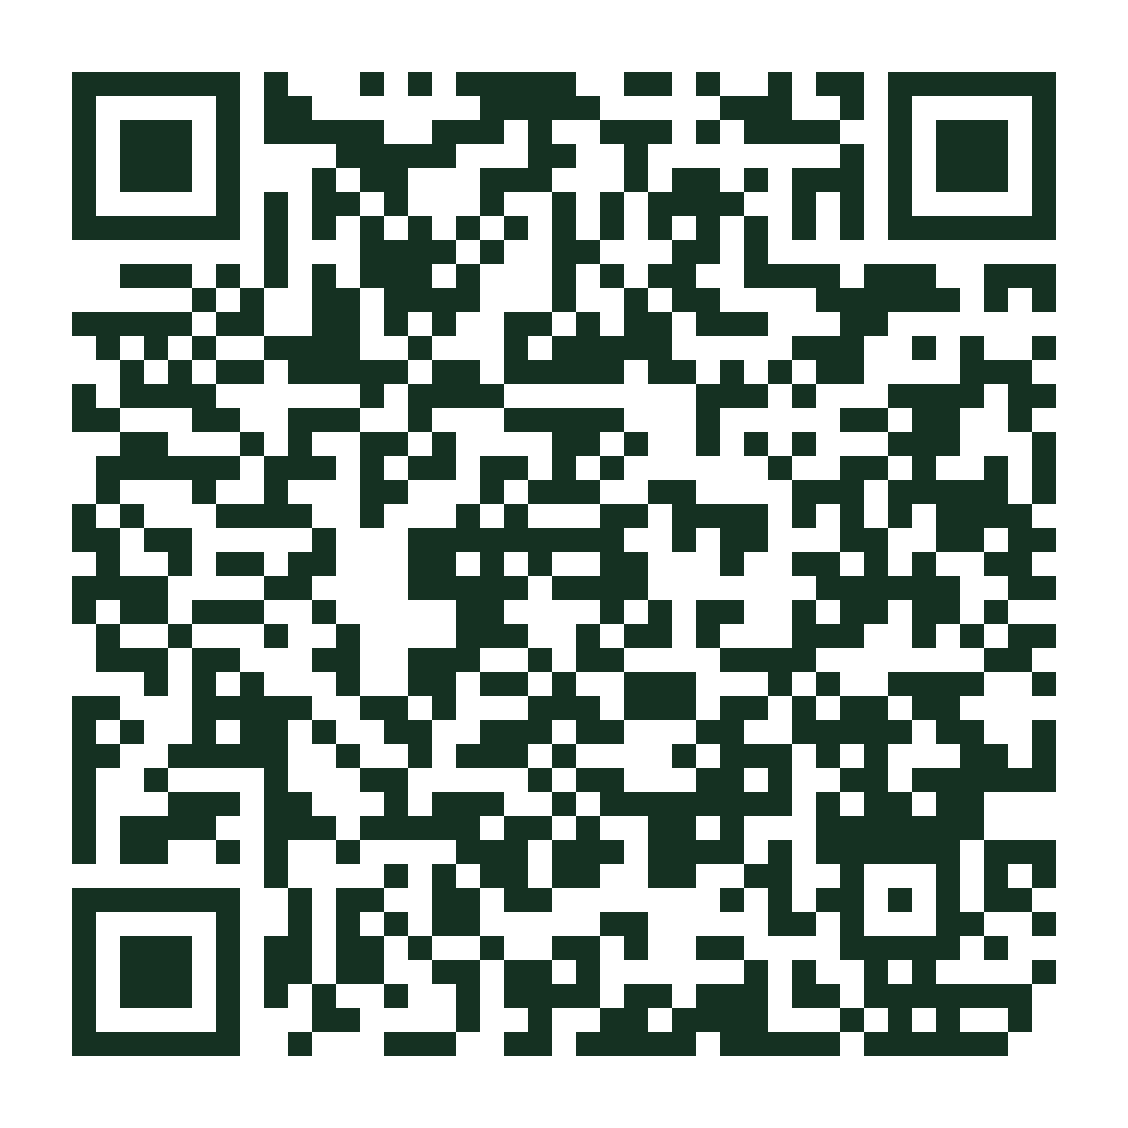
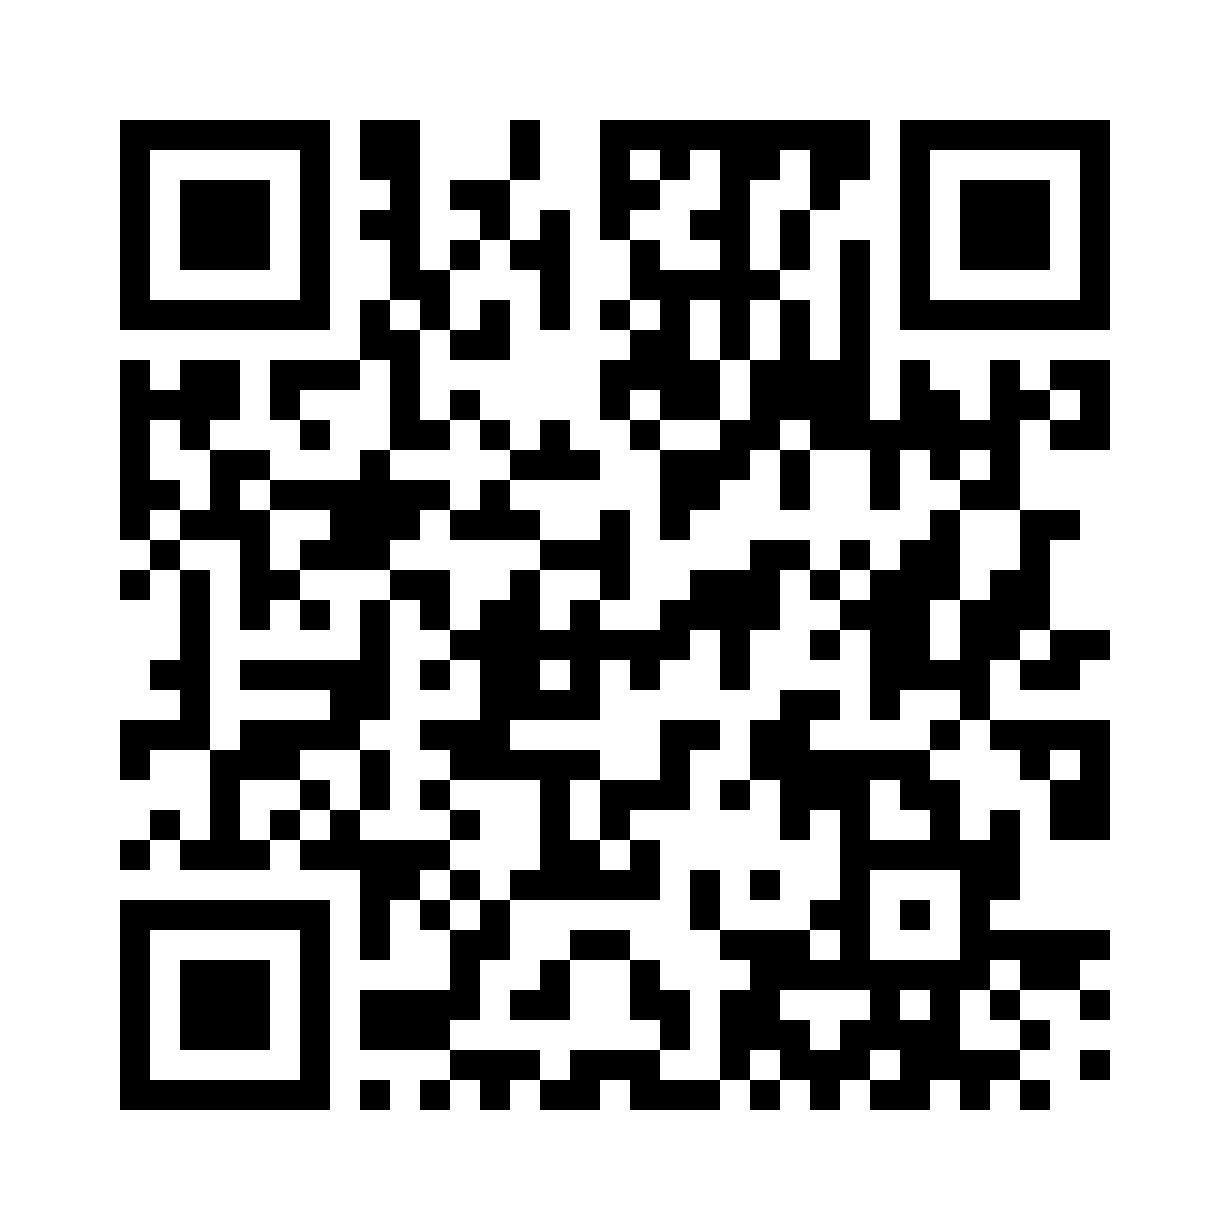
باركود أسهل بالقراءة: مربعات أكبر وتباين أعلى
الباركود كان بمستوى تصحيح خطأ H — يتحمّل تلف 30% بس يحتاج 41×41
مربع، يعني مربعات صغيرة وكاميرا الموبايل تتعب بقراءته من الشاشة.

- نزّلته لمستوى M: 33×33 مربع بدل 41×41، فالمربع الواحد أكبر 25%
  ولسه يتحمّل تلف 15% — كافي لملصق بمحل
- أسود صافي بدل الأخضر الغامق — تباين أعلى مع الخلفية البيضاء
- حاشية أوسع (4 مربعات) — بعض القارئات تحتاجها حتى تميّز الحدود
- 1230 بكسل بدل 1128

انتفحص بقارئ باركود (OpenCV) ويقرا الرابط الصحيح.

Claude-Session: https://claude.ai/code/session_01XYXCeXkoAFiM9NR5Qz9NUo

diff --git a/install.html b/install.html
@@ -123,7 +123,7 @@
     <div class="headline">ثبّت تطبيقنا على موبايلك</div>
     <div class="sub">اطلب خضارك وفواكهك من البيت — يوصلك لباب دارك</div>
 
-    <div class="qr-frame"><svg xmlns="http://www.w3.org/2000/svg" viewBox="0 0 45 45" shape-rendering="crispEdges"><rect width="45" height="45" fill="#fff"/><path d="M2 2h7v1h-7zM10 2h1v1h-1zM14 2h1v1h-1zM16 2h1v1h-1zM18 2h5v1h-5zM25 2h2v1h-2zM28 2h1v1h-1zM31 2h1v1h-1zM33 2h2v1h-2zM36 2h7v1h-7zM2 3h1v1h-1zM8 3h1v1h-1zM10 3h2v1h-2zM19 3h5v1h-5zM29 3h3v1h-3zM34 3h1v1h-1zM36 3h1v1h-1zM42 3h1v1h-1zM2 4h1v1h-1zM4 4h3v1h-3zM8 4h1v1h-1zM10 4h5v1h-5zM17 4h3v1h-3zM21 4h1v1h-1zM24 4h3v1h-3zM28 4h1v1h-1zM30 4h4v1h-4zM36 4h1v1h-1zM38 4h3v1h-3zM42 4h1v1h-1zM2 5h1v1h-1zM4 5h3v1h-3zM8 5h1v1h-1zM13 5h5v1h-5zM21 5h2v1h-2zM25 5h1v1h-1zM34 5h1v1h-1zM36 5h1v1h-1zM38 5h3v1h-3zM42 5h1v1h-1zM2 6h1v1h-1zM4 6h3v1h-3zM8 6h1v1h-1zM12 6h1v1h-1zM14 6h2v1h-2zM19 6h3v1h-3zM25 6h1v1h-1zM27 6h2v1h-2zM30 6h1v1h-1zM32 6h3v1h-3zM36 6h1v1h-1zM38 6h3v1h-3zM42 6h1v1h-1zM2 7h1v1h-1zM8 7h1v1h-1zM10 7h1v1h-1zM12 7h2v1h-2zM15 7h1v1h-1zM19 7h1v1h-1zM22 7h1v1h-1zM24 7h1v1h-1zM26 7h4v1h-4zM32 7h1v1h-1zM34 7h1v1h-1zM36 7h1v1h-1zM42 7h1v1h-1zM2 8h7v1h-7zM10 8h1v1h-1zM12 8h1v1h-1zM14 8h1v1h-1zM16 8h1v1h-1zM18 8h1v1h-1zM20 8h1v1h-1zM22 8h1v1h-1zM24 8h1v1h-1zM26 8h1v1h-1zM28 8h1v1h-1zM30 8h1v1h-1zM32 8h1v1h-1zM34 8h1v1h-1zM36 8h7v1h-7zM10 9h1v1h-1zM14 9h4v1h-4zM19 9h1v1h-1zM22 9h2v1h-2zM27 9h2v1h-2zM30 9h1v1h-1zM4 10h3v1h-3zM8 10h1v1h-1zM10 10h1v1h-1zM12 10h1v1h-1zM14 10h3v1h-3zM18 10h1v1h-1zM22 10h1v1h-1zM24 10h1v1h-1zM26 10h2v1h-2zM30 10h4v1h-4zM35 10h3v1h-3zM40 10h3v1h-3zM7 11h1v1h-1zM9 11h1v1h-1zM12 11h2v1h-2zM15 11h4v1h-4zM22 11h1v1h-1zM25 11h1v1h-1zM27 11h2v1h-2zM33 11h6v1h-6zM40 11h1v1h-1zM42 11h1v1h-1zM2 12h5v1h-5zM8 12h2v1h-2zM12 12h2v1h-2zM15 12h1v1h-1zM17 12h1v1h-1zM20 12h2v1h-2zM23 12h1v1h-1zM25 12h2v1h-2zM28 12h3v1h-3zM34 12h2v1h-2zM3 13h1v1h-1zM5 13h1v1h-1zM7 13h1v1h-1zM10 13h4v1h-4zM16 13h1v1h-1zM20 13h1v1h-1zM22 13h5v1h-5zM32 13h3v1h-3zM37 13h1v1h-1zM39 13h1v1h-1zM42 13h1v1h-1zM4 14h1v1h-1zM6 14h1v1h-1zM8 14h2v1h-2zM11 14h5v1h-5zM17 14h2v1h-2zM20 14h5v1h-5zM26 14h2v1h-2zM29 14h1v1h-1zM31 14h1v1h-1zM33 14h2v1h-2zM39 14h3v1h-3zM2 15h1v1h-1zM4 15h4v1h-4zM14 15h1v1h-1zM16 15h4v1h-4zM28 15h3v1h-3zM32 15h1v1h-1zM36 15h4v1h-4zM41 15h2v1h-2zM2 16h2v1h-2zM7 16h2v1h-2zM11 16h3v1h-3zM16 16h1v1h-1zM20 16h5v1h-5zM28 16h1v1h-1zM34 16h2v1h-2zM37 16h2v1h-2zM41 16h1v1h-1zM4 17h2v1h-2zM9 17h1v1h-1zM11 17h1v1h-1zM14 17h2v1h-2zM17 17h1v1h-1zM22 17h2v1h-2zM25 17h1v1h-1zM28 17h1v1h-1zM30 17h1v1h-1zM32 17h1v1h-1zM36 17h3v1h-3zM42 17h1v1h-1zM3 18h6v1h-6zM10 18h3v1h-3zM14 18h1v1h-1zM16 18h2v1h-2zM19 18h2v1h-2zM22 18h1v1h-1zM24 18h1v1h-1zM31 18h1v1h-1zM34 18h2v1h-2zM37 18h1v1h-1zM40 18h1v1h-1zM42 18h1v1h-1zM3 19h1v1h-1zM7 19h1v1h-1zM10 19h1v1h-1zM14 19h2v1h-2zM19 19h1v1h-1zM21 19h3v1h-3zM26 19h2v1h-2zM32 19h3v1h-3zM36 19h5v1h-5zM42 19h1v1h-1zM2 20h1v1h-1zM4 20h1v1h-1zM8 20h4v1h-4zM14 20h1v1h-1zM18 20h1v1h-1zM20 20h1v1h-1zM24 20h2v1h-2zM27 20h4v1h-4zM32 20h1v1h-1zM34 20h1v1h-1zM36 20h1v1h-1zM38 20h4v1h-4zM2 21h2v1h-2zM5 21h2v1h-2zM12 21h1v1h-1zM16 21h9v1h-9zM27 21h1v1h-1zM29 21h2v1h-2zM34 21h2v1h-2zM38 21h2v1h-2zM41 21h2v1h-2zM3 22h1v1h-1zM6 22h1v1h-1zM8 22h2v1h-2zM11 22h2v1h-2zM16 22h2v1h-2zM19 22h1v1h-1zM21 22h1v1h-1zM24 22h2v1h-2zM29 22h1v1h-1zM32 22h2v1h-2zM35 22h1v1h-1zM37 22h1v1h-1zM40 22h2v1h-2zM2 23h4v1h-4zM10 23h2v1h-2zM16 23h5v1h-5zM22 23h4v1h-4zM33 23h6v1h-6zM41 23h2v1h-2zM2 24h1v1h-1zM4 24h2v1h-2zM7 24h3v1h-3zM12 24h1v1h-1zM18 24h2v1h-2zM24 24h1v1h-1zM26 24h1v1h-1zM28 24h2v1h-2zM32 24h1v1h-1zM34 24h2v1h-2zM37 24h2v1h-2zM40 24h1v1h-1zM3 25h1v1h-1zM6 25h1v1h-1zM10 25h1v1h-1zM13 25h1v1h-1zM18 25h3v1h-3zM23 25h1v1h-1zM25 25h2v1h-2zM28 25h1v1h-1zM32 25h3v1h-3zM37 25h1v1h-1zM39 25h1v1h-1zM41 25h2v1h-2zM3 26h3v1h-3zM7 26h2v1h-2zM12 26h2v1h-2zM16 26h3v1h-3zM21 26h1v1h-1zM23 26h2v1h-2zM29 26h4v1h-4zM40 26h2v1h-2zM5 27h1v1h-1zM7 27h1v1h-1zM9 27h1v1h-1zM13 27h1v1h-1zM16 27h2v1h-2zM19 27h2v1h-2zM22 27h1v1h-1zM25 27h3v1h-3zM31 27h1v1h-1zM33 27h1v1h-1zM36 27h4v1h-4zM42 27h1v1h-1zM2 28h2v1h-2zM7 28h5v1h-5zM14 28h2v1h-2zM17 28h1v1h-1zM21 28h3v1h-3zM25 28h3v1h-3zM29 28h2v1h-2zM32 28h1v1h-1zM34 28h2v1h-2zM37 28h2v1h-2zM2 29h1v1h-1zM4 29h1v1h-1zM7 29h1v1h-1zM9 29h2v1h-2zM12 29h1v1h-1zM15 29h2v1h-2zM19 29h3v1h-3zM23 29h2v1h-2zM28 29h2v1h-2zM32 29h5v1h-5zM38 29h2v1h-2zM42 29h1v1h-1zM2 30h2v1h-2zM6 30h5v1h-5zM13 30h1v1h-1zM16 30h1v1h-1zM18 30h3v1h-3zM22 30h1v1h-1zM27 30h1v1h-1zM29 30h3v1h-3zM33 30h1v1h-1zM35 30h1v1h-1zM39 30h2v1h-2zM42 30h1v1h-1zM2 31h1v1h-1zM5 31h1v1h-1zM10 31h1v1h-1zM14 31h2v1h-2zM21 31h1v1h-1zM23 31h2v1h-2zM28 31h2v1h-2zM31 31h1v1h-1zM34 31h2v1h-2zM37 31h6v1h-6zM2 32h1v1h-1zM6 32h3v1h-3zM10 32h2v1h-2zM15 32h1v1h-1zM17 32h3v1h-3zM22 32h1v1h-1zM24 32h8v1h-8zM33 32h1v1h-1zM35 32h2v1h-2zM38 32h2v1h-2zM2 33h1v1h-1zM4 33h4v1h-4zM10 33h3v1h-3zM14 33h5v1h-5zM20 33h2v1h-2zM23 33h1v1h-1zM26 33h2v1h-2zM29 33h1v1h-1zM33 33h7v1h-7zM2 34h1v1h-1zM4 34h2v1h-2zM8 34h1v1h-1zM10 34h1v1h-1zM13 34h1v1h-1zM18 34h3v1h-3zM22 34h3v1h-3zM26 34h4v1h-4zM31 34h1v1h-1zM33 34h6v1h-6zM40 34h3v1h-3zM10 35h1v1h-1zM15 35h1v1h-1zM17 35h1v1h-1zM19 35h2v1h-2zM22 35h2v1h-2zM26 35h2v1h-2zM30 35h2v1h-2zM34 35h1v1h-1zM38 35h1v1h-1zM40 35h1v1h-1zM42 35h1v1h-1zM2 36h7v1h-7zM11 36h1v1h-1zM13 36h2v1h-2zM17 36h2v1h-2zM20 36h2v1h-2zM29 36h1v1h-1zM31 36h1v1h-1zM33 36h2v1h-2zM36 36h1v1h-1zM38 36h1v1h-1zM40 36h2v1h-2zM2 37h1v1h-1zM8 37h1v1h-1zM11 37h1v1h-1zM13 37h1v1h-1zM15 37h1v1h-1zM17 37h2v1h-2zM24 37h2v1h-2zM31 37h2v1h-2zM34 37h1v1h-1zM38 37h2v1h-2zM42 37h1v1h-1zM2 38h1v1h-1zM4 38h3v1h-3zM8 38h1v1h-1zM10 38h2v1h-2zM13 38h2v1h-2zM16 38h1v1h-1zM19 38h1v1h-1zM22 38h2v1h-2zM25 38h1v1h-1zM28 38h2v1h-2zM34 38h5v1h-5zM40 38h1v1h-1zM2 39h1v1h-1zM4 39h3v1h-3zM8 39h1v1h-1zM10 39h2v1h-2zM13 39h2v1h-2zM17 39h2v1h-2zM20 39h2v1h-2zM23 39h1v1h-1zM30 39h1v1h-1zM32 39h1v1h-1zM35 39h1v1h-1zM37 39h1v1h-1zM42 39h1v1h-1zM2 40h1v1h-1zM4 40h3v1h-3zM8 40h1v1h-1zM10 40h1v1h-1zM12 40h1v1h-1zM15 40h1v1h-1zM18 40h1v1h-1zM20 40h4v1h-4zM25 40h2v1h-2zM28 40h3v1h-3zM32 40h2v1h-2zM35 40h7v1h-7zM2 41h1v1h-1zM8 41h1v1h-1zM12 41h2v1h-2zM18 41h1v1h-1zM21 41h1v1h-1zM24 41h2v1h-2zM27 41h4v1h-4zM34 41h1v1h-1zM36 41h1v1h-1zM38 41h1v1h-1zM41 41h1v1h-1zM2 42h7v1h-7zM11 42h1v1h-1zM15 42h3v1h-3zM20 42h2v1h-2zM23 42h5v1h-5zM29 42h5v1h-5zM35 42h6v1h-6z" fill="#153122"/></svg></div>
+    <div class="qr-frame"><svg xmlns="http://www.w3.org/2000/svg" viewBox="0 0 41 41" shape-rendering="crispEdges"><rect width="41" height="41" fill="#fff"/><path d="M4 4h7v1h-7zM12 4h2v1h-2zM17 4h1v1h-1zM20 4h9v1h-9zM30 4h7v1h-7zM4 5h1v1h-1zM10 5h1v1h-1zM12 5h2v1h-2zM17 5h1v1h-1zM20 5h1v1h-1zM22 5h1v1h-1zM24 5h2v1h-2zM27 5h2v1h-2zM30 5h1v1h-1zM36 5h1v1h-1zM4 6h1v1h-1zM6 6h3v1h-3zM10 6h1v1h-1zM13 6h1v1h-1zM15 6h2v1h-2zM20 6h2v1h-2zM24 6h1v1h-1zM27 6h1v1h-1zM30 6h1v1h-1zM32 6h3v1h-3zM36 6h1v1h-1zM4 7h1v1h-1zM6 7h3v1h-3zM10 7h1v1h-1zM12 7h2v1h-2zM16 7h1v1h-1zM18 7h1v1h-1zM20 7h1v1h-1zM23 7h2v1h-2zM26 7h1v1h-1zM30 7h1v1h-1zM32 7h3v1h-3zM36 7h1v1h-1zM4 8h1v1h-1zM6 8h3v1h-3zM10 8h1v1h-1zM13 8h1v1h-1zM15 8h1v1h-1zM17 8h2v1h-2zM21 8h1v1h-1zM24 8h1v1h-1zM26 8h1v1h-1zM28 8h1v1h-1zM30 8h1v1h-1zM32 8h3v1h-3zM36 8h1v1h-1zM4 9h1v1h-1zM10 9h1v1h-1zM13 9h2v1h-2zM18 9h1v1h-1zM21 9h5v1h-5zM28 9h1v1h-1zM30 9h1v1h-1zM36 9h1v1h-1zM4 10h7v1h-7zM12 10h1v1h-1zM14 10h1v1h-1zM16 10h1v1h-1zM18 10h1v1h-1zM20 10h1v1h-1zM22 10h1v1h-1zM24 10h1v1h-1zM26 10h1v1h-1zM28 10h1v1h-1zM30 10h7v1h-7zM12 11h2v1h-2zM15 11h2v1h-2zM21 11h2v1h-2zM24 11h1v1h-1zM26 11h1v1h-1zM28 11h1v1h-1zM4 12h1v1h-1zM6 12h2v1h-2zM9 12h3v1h-3zM13 12h1v1h-1zM20 12h4v1h-4zM25 12h4v1h-4zM30 12h1v1h-1zM33 12h1v1h-1zM35 12h2v1h-2zM4 13h4v1h-4zM9 13h1v1h-1zM13 13h1v1h-1zM15 13h1v1h-1zM20 13h1v1h-1zM22 13h2v1h-2zM25 13h4v1h-4zM30 13h2v1h-2zM33 13h2v1h-2zM36 13h1v1h-1zM4 14h1v1h-1zM6 14h1v1h-1zM10 14h1v1h-1zM13 14h2v1h-2zM16 14h1v1h-1zM18 14h1v1h-1zM21 14h1v1h-1zM24 14h2v1h-2zM27 14h7v1h-7zM35 14h2v1h-2zM4 15h1v1h-1zM7 15h2v1h-2zM12 15h1v1h-1zM17 15h3v1h-3zM22 15h3v1h-3zM26 15h1v1h-1zM29 15h1v1h-1zM31 15h1v1h-1zM33 15h1v1h-1zM4 16h2v1h-2zM7 16h1v1h-1zM9 16h6v1h-6zM16 16h1v1h-1zM22 16h2v1h-2zM26 16h1v1h-1zM29 16h1v1h-1zM32 16h2v1h-2zM4 17h1v1h-1zM6 17h3v1h-3zM11 17h3v1h-3zM15 17h3v1h-3zM20 17h1v1h-1zM22 17h1v1h-1zM31 17h1v1h-1zM34 17h2v1h-2zM5 18h1v1h-1zM8 18h1v1h-1zM10 18h3v1h-3zM18 18h3v1h-3zM25 18h2v1h-2zM28 18h1v1h-1zM30 18h2v1h-2zM34 18h1v1h-1zM4 19h1v1h-1zM6 19h1v1h-1zM8 19h2v1h-2zM13 19h2v1h-2zM17 19h1v1h-1zM20 19h1v1h-1zM23 19h3v1h-3zM27 19h1v1h-1zM29 19h3v1h-3zM33 19h2v1h-2zM6 20h1v1h-1zM8 20h1v1h-1zM10 20h1v1h-1zM12 20h1v1h-1zM14 20h1v1h-1zM16 20h2v1h-2zM19 20h1v1h-1zM22 20h4v1h-4zM28 20h3v1h-3zM32 20h3v1h-3zM6 21h1v1h-1zM12 21h1v1h-1zM15 21h8v1h-8zM24 21h1v1h-1zM27 21h1v1h-1zM29 21h2v1h-2zM32 21h2v1h-2zM35 21h2v1h-2zM5 22h2v1h-2zM8 22h5v1h-5zM14 22h1v1h-1zM16 22h2v1h-2zM19 22h1v1h-1zM21 22h1v1h-1zM24 22h1v1h-1zM29 22h4v1h-4zM34 22h2v1h-2zM6 23h1v1h-1zM11 23h2v1h-2zM16 23h4v1h-4zM26 23h2v1h-2zM29 23h1v1h-1zM32 23h1v1h-1zM4 24h3v1h-3zM8 24h4v1h-4zM14 24h3v1h-3zM22 24h2v1h-2zM25 24h2v1h-2zM31 24h1v1h-1zM33 24h4v1h-4zM4 25h1v1h-1zM7 25h3v1h-3zM12 25h1v1h-1zM15 25h5v1h-5zM22 25h1v1h-1zM25 25h6v1h-6zM34 25h1v1h-1zM36 25h1v1h-1zM7 26h1v1h-1zM10 26h1v1h-1zM12 26h1v1h-1zM14 26h1v1h-1zM18 26h1v1h-1zM20 26h3v1h-3zM24 26h1v1h-1zM26 26h3v1h-3zM30 26h2v1h-2zM35 26h2v1h-2zM5 27h1v1h-1zM7 27h1v1h-1zM9 27h1v1h-1zM11 27h1v1h-1zM15 27h1v1h-1zM18 27h1v1h-1zM20 27h1v1h-1zM26 27h1v1h-1zM28 27h1v1h-1zM31 27h1v1h-1zM33 27h1v1h-1zM35 27h2v1h-2zM4 28h1v1h-1zM6 28h3v1h-3zM10 28h5v1h-5zM18 28h2v1h-2zM21 28h1v1h-1zM28 28h6v1h-6zM12 29h2v1h-2zM15 29h1v1h-1zM17 29h5v1h-5zM23 29h1v1h-1zM25 29h1v1h-1zM28 29h1v1h-1zM32 29h2v1h-2zM4 30h7v1h-7zM12 30h1v1h-1zM14 30h1v1h-1zM16 30h1v1h-1zM23 30h1v1h-1zM27 30h2v1h-2zM30 30h1v1h-1zM32 30h1v1h-1zM4 31h1v1h-1zM10 31h1v1h-1zM12 31h1v1h-1zM15 31h2v1h-2zM19 31h2v1h-2zM24 31h3v1h-3zM28 31h1v1h-1zM32 31h5v1h-5zM4 32h1v1h-1zM6 32h3v1h-3zM10 32h1v1h-1zM15 32h1v1h-1zM18 32h1v1h-1zM21 32h1v1h-1zM25 32h8v1h-8zM34 32h2v1h-2zM4 33h1v1h-1zM6 33h3v1h-3zM10 33h1v1h-1zM12 33h4v1h-4zM17 33h2v1h-2zM21 33h2v1h-2zM24 33h2v1h-2zM29 33h1v1h-1zM31 33h1v1h-1zM33 33h1v1h-1zM36 33h1v1h-1zM4 34h1v1h-1zM6 34h3v1h-3zM10 34h1v1h-1zM12 34h3v1h-3zM22 34h1v1h-1zM24 34h3v1h-3zM28 34h4v1h-4zM34 34h1v1h-1zM4 35h1v1h-1zM10 35h1v1h-1zM15 35h3v1h-3zM19 35h3v1h-3zM24 35h1v1h-1zM26 35h3v1h-3zM30 35h4v1h-4zM36 35h1v1h-1zM4 36h7v1h-7zM12 36h1v1h-1zM14 36h1v1h-1zM16 36h1v1h-1zM18 36h2v1h-2zM21 36h3v1h-3zM25 36h1v1h-1zM27 36h1v1h-1zM29 36h2v1h-2zM32 36h1v1h-1zM34 36h1v1h-1z" fill="#000"/></svg></div>
     <div class="scan-cta">📷 صوّر الباركود بكاميرتك</div>
     <div class="url">a0113724-del.github.io/janat-store</div>
 
